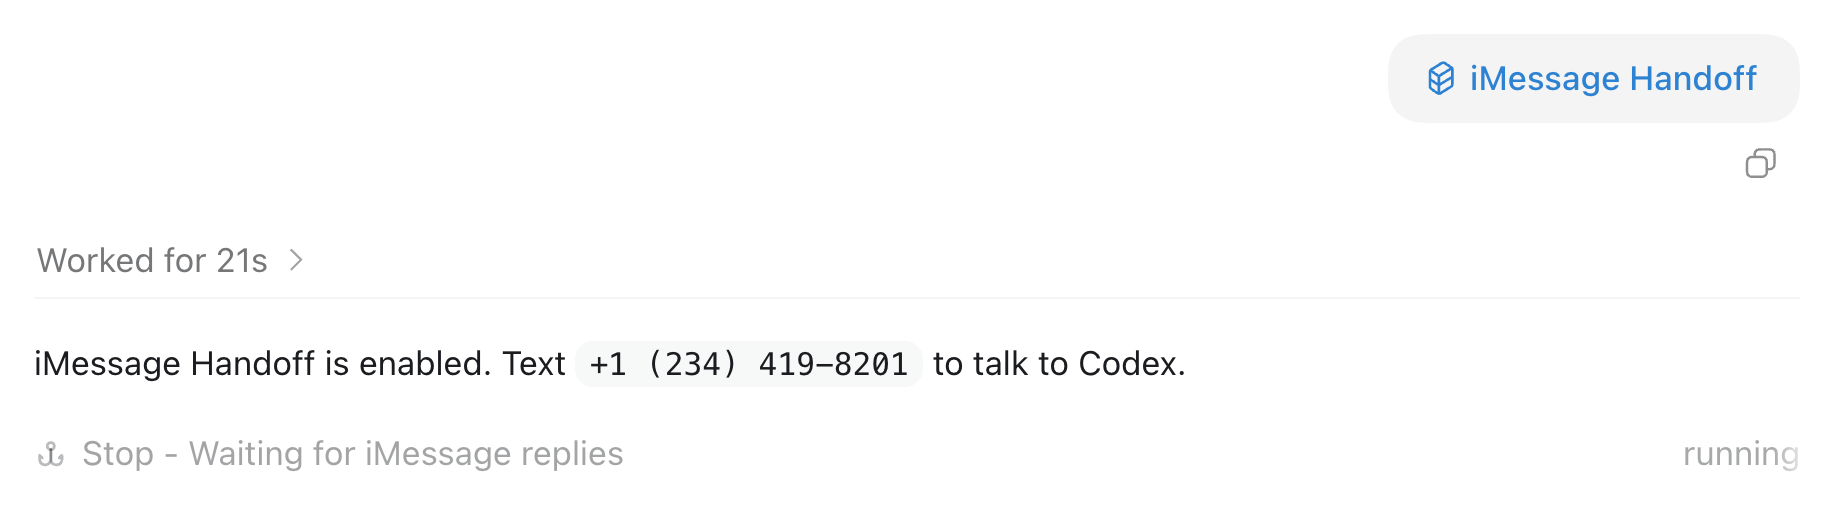
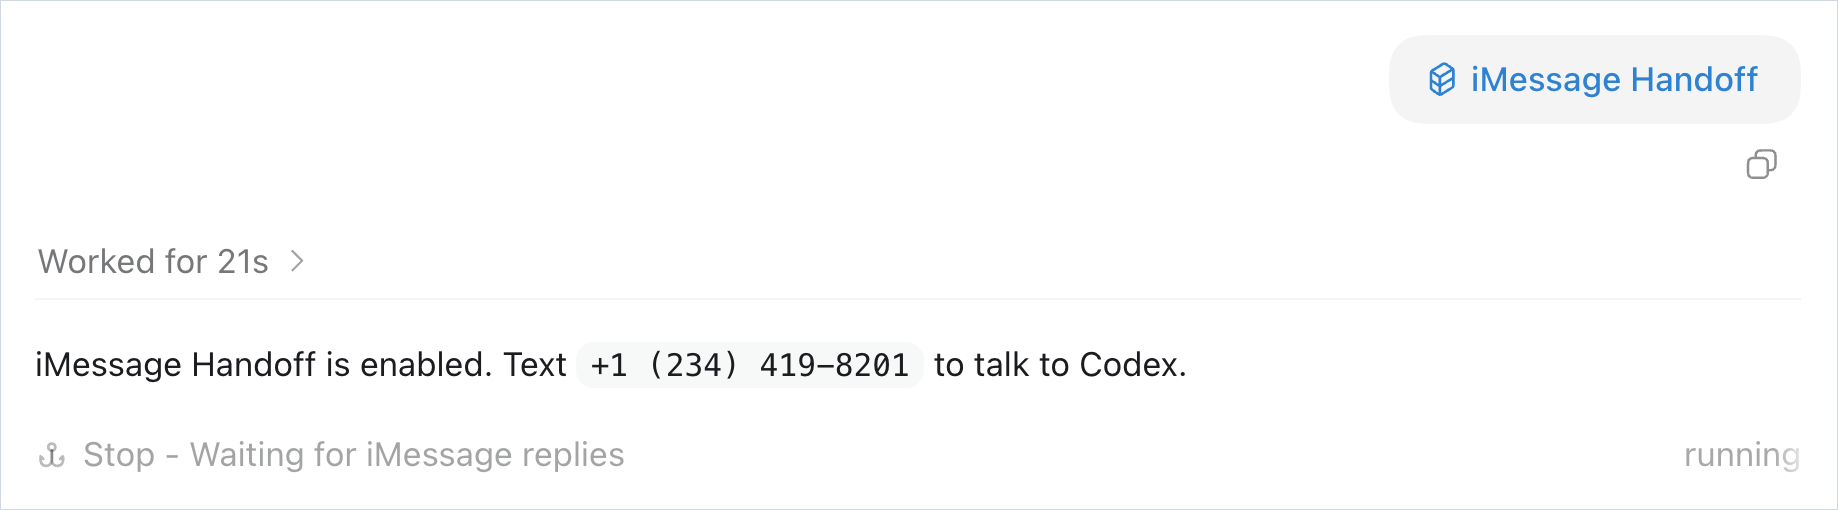
bake border into readme preview

diff --git a/README.md b/README.md
@@ -7,11 +7,7 @@ iMessage Handoff lets you continue a local Codex thread from iMessage. It has tw
 
 The hosted relay is the default path. You can also deploy your own Cloudflare relay and point the skill at it.
 
-<img
-  src="images/codex-preview.png"
-  alt="iMessage Handoff running in Codex"
-  style="border: 1px solid #d0d7de; border-radius: 8px;"
->
+![iMessage Handoff running in Codex](images/codex-preview.png)
 
 ## Install
 
